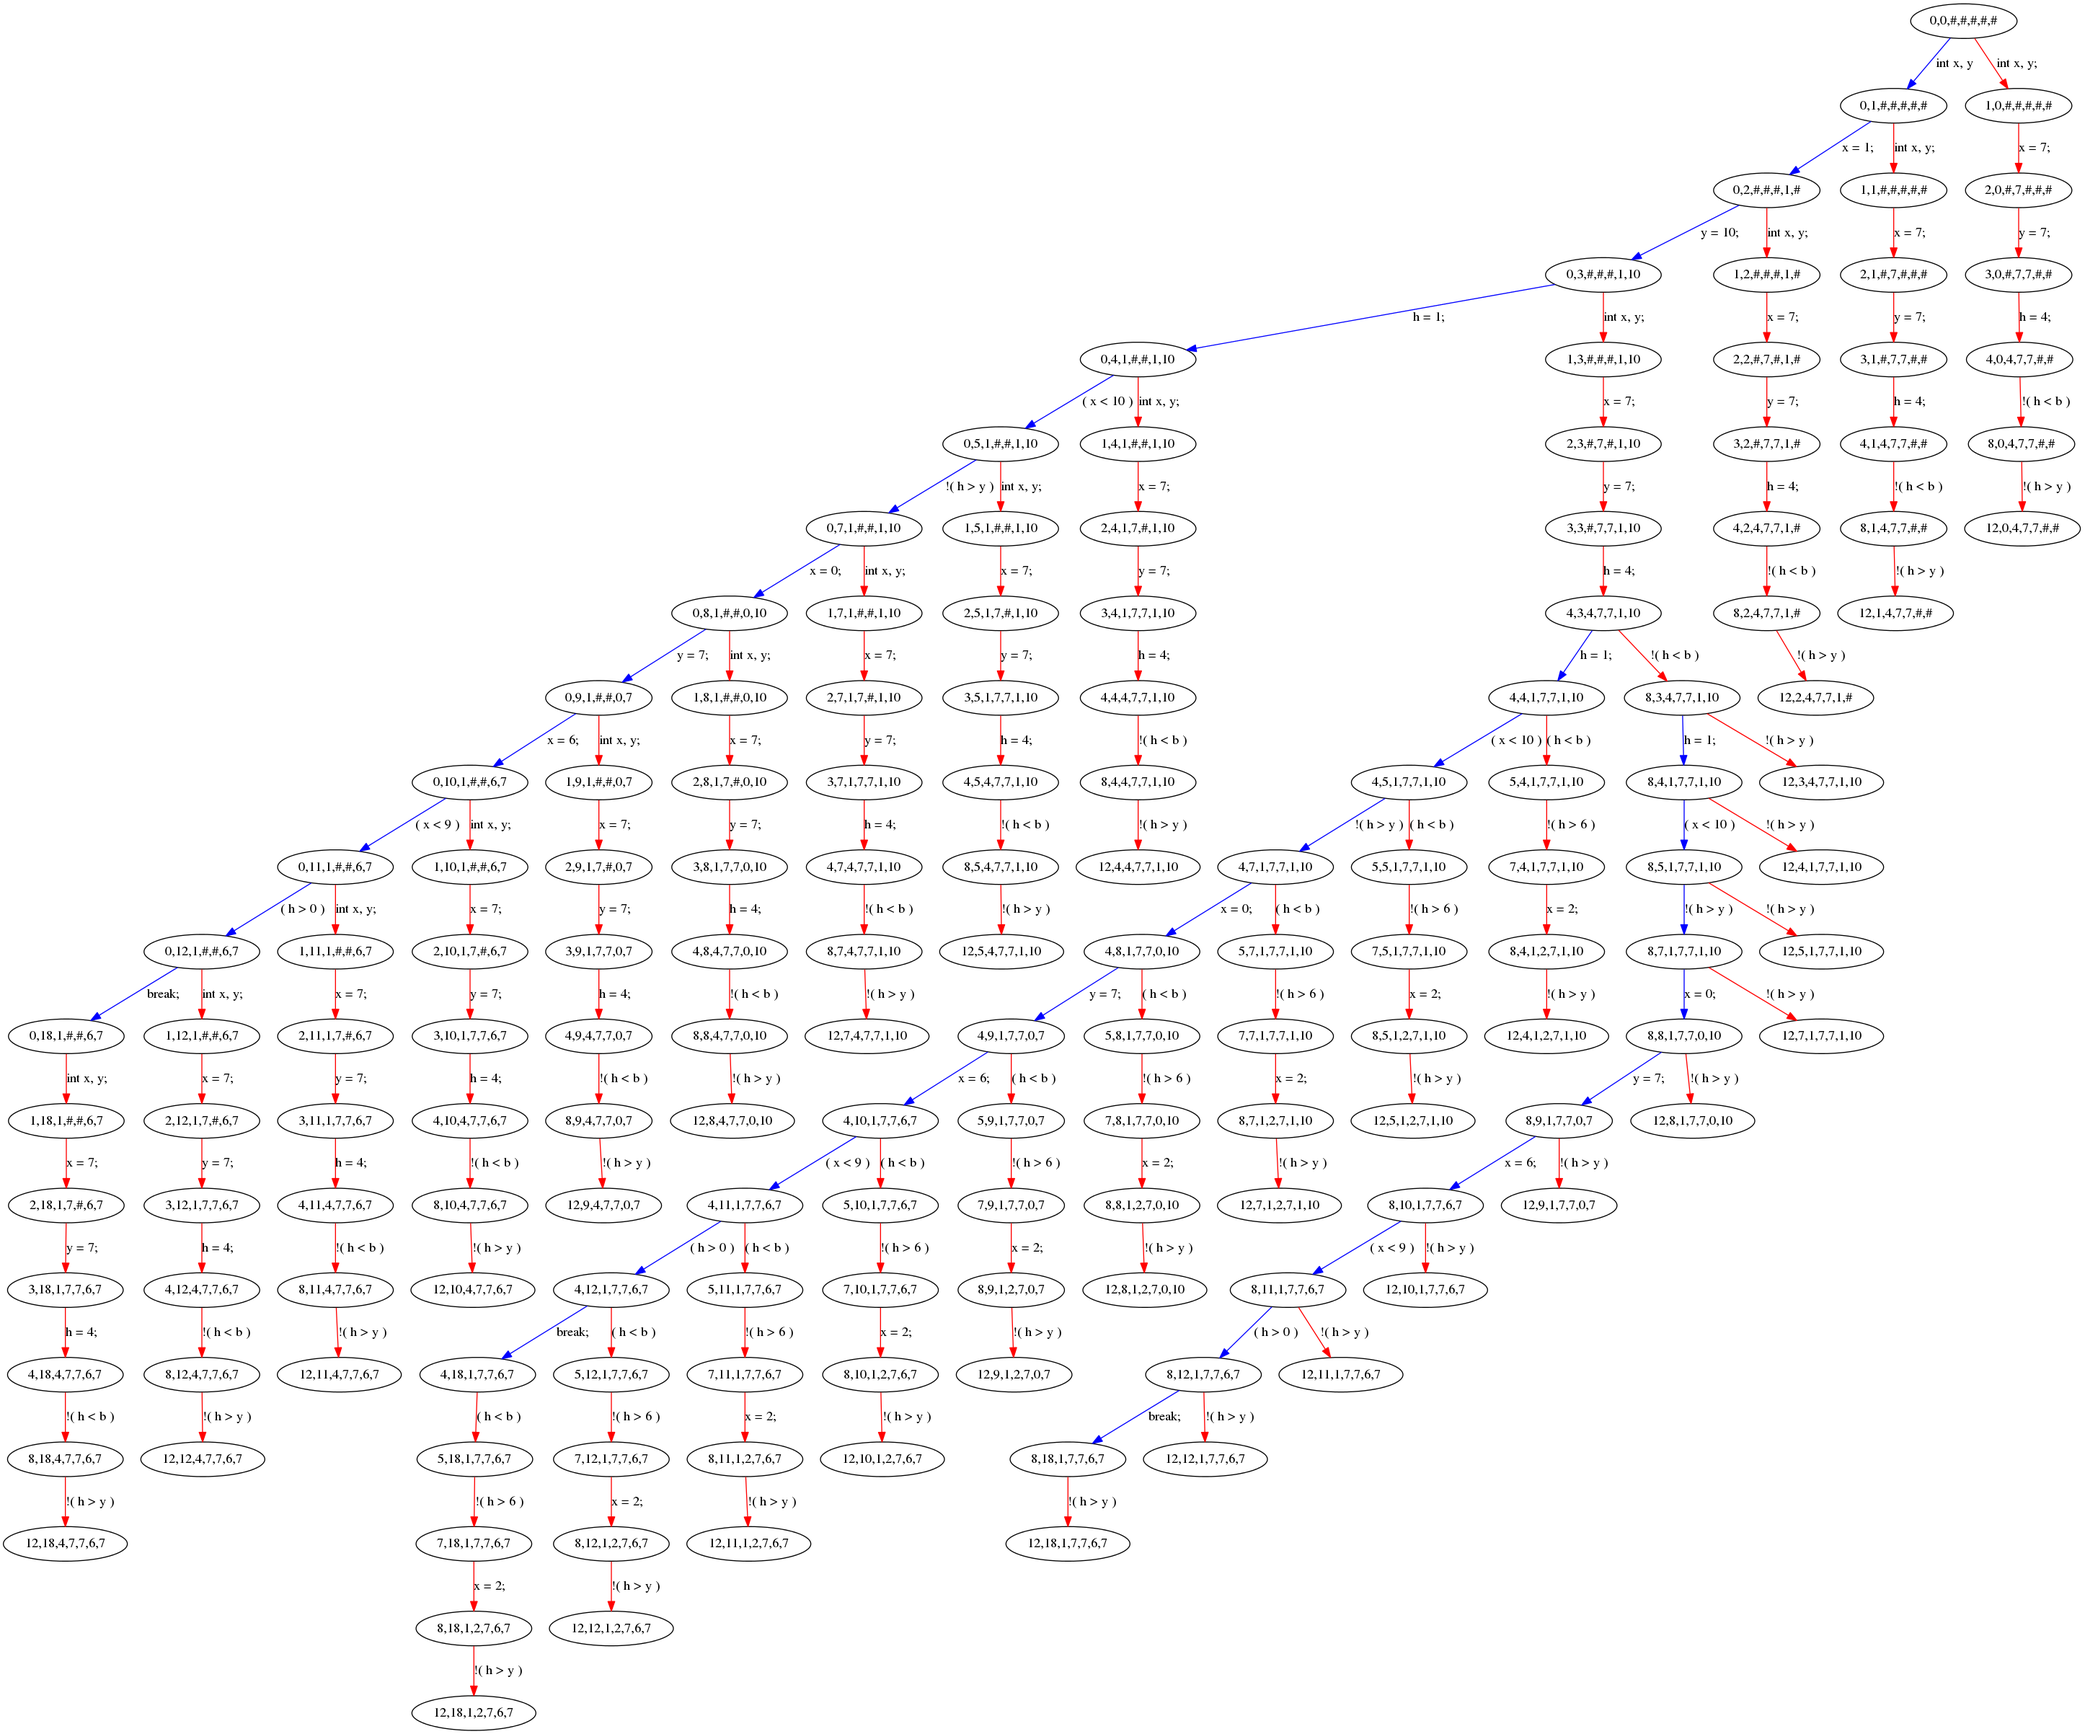
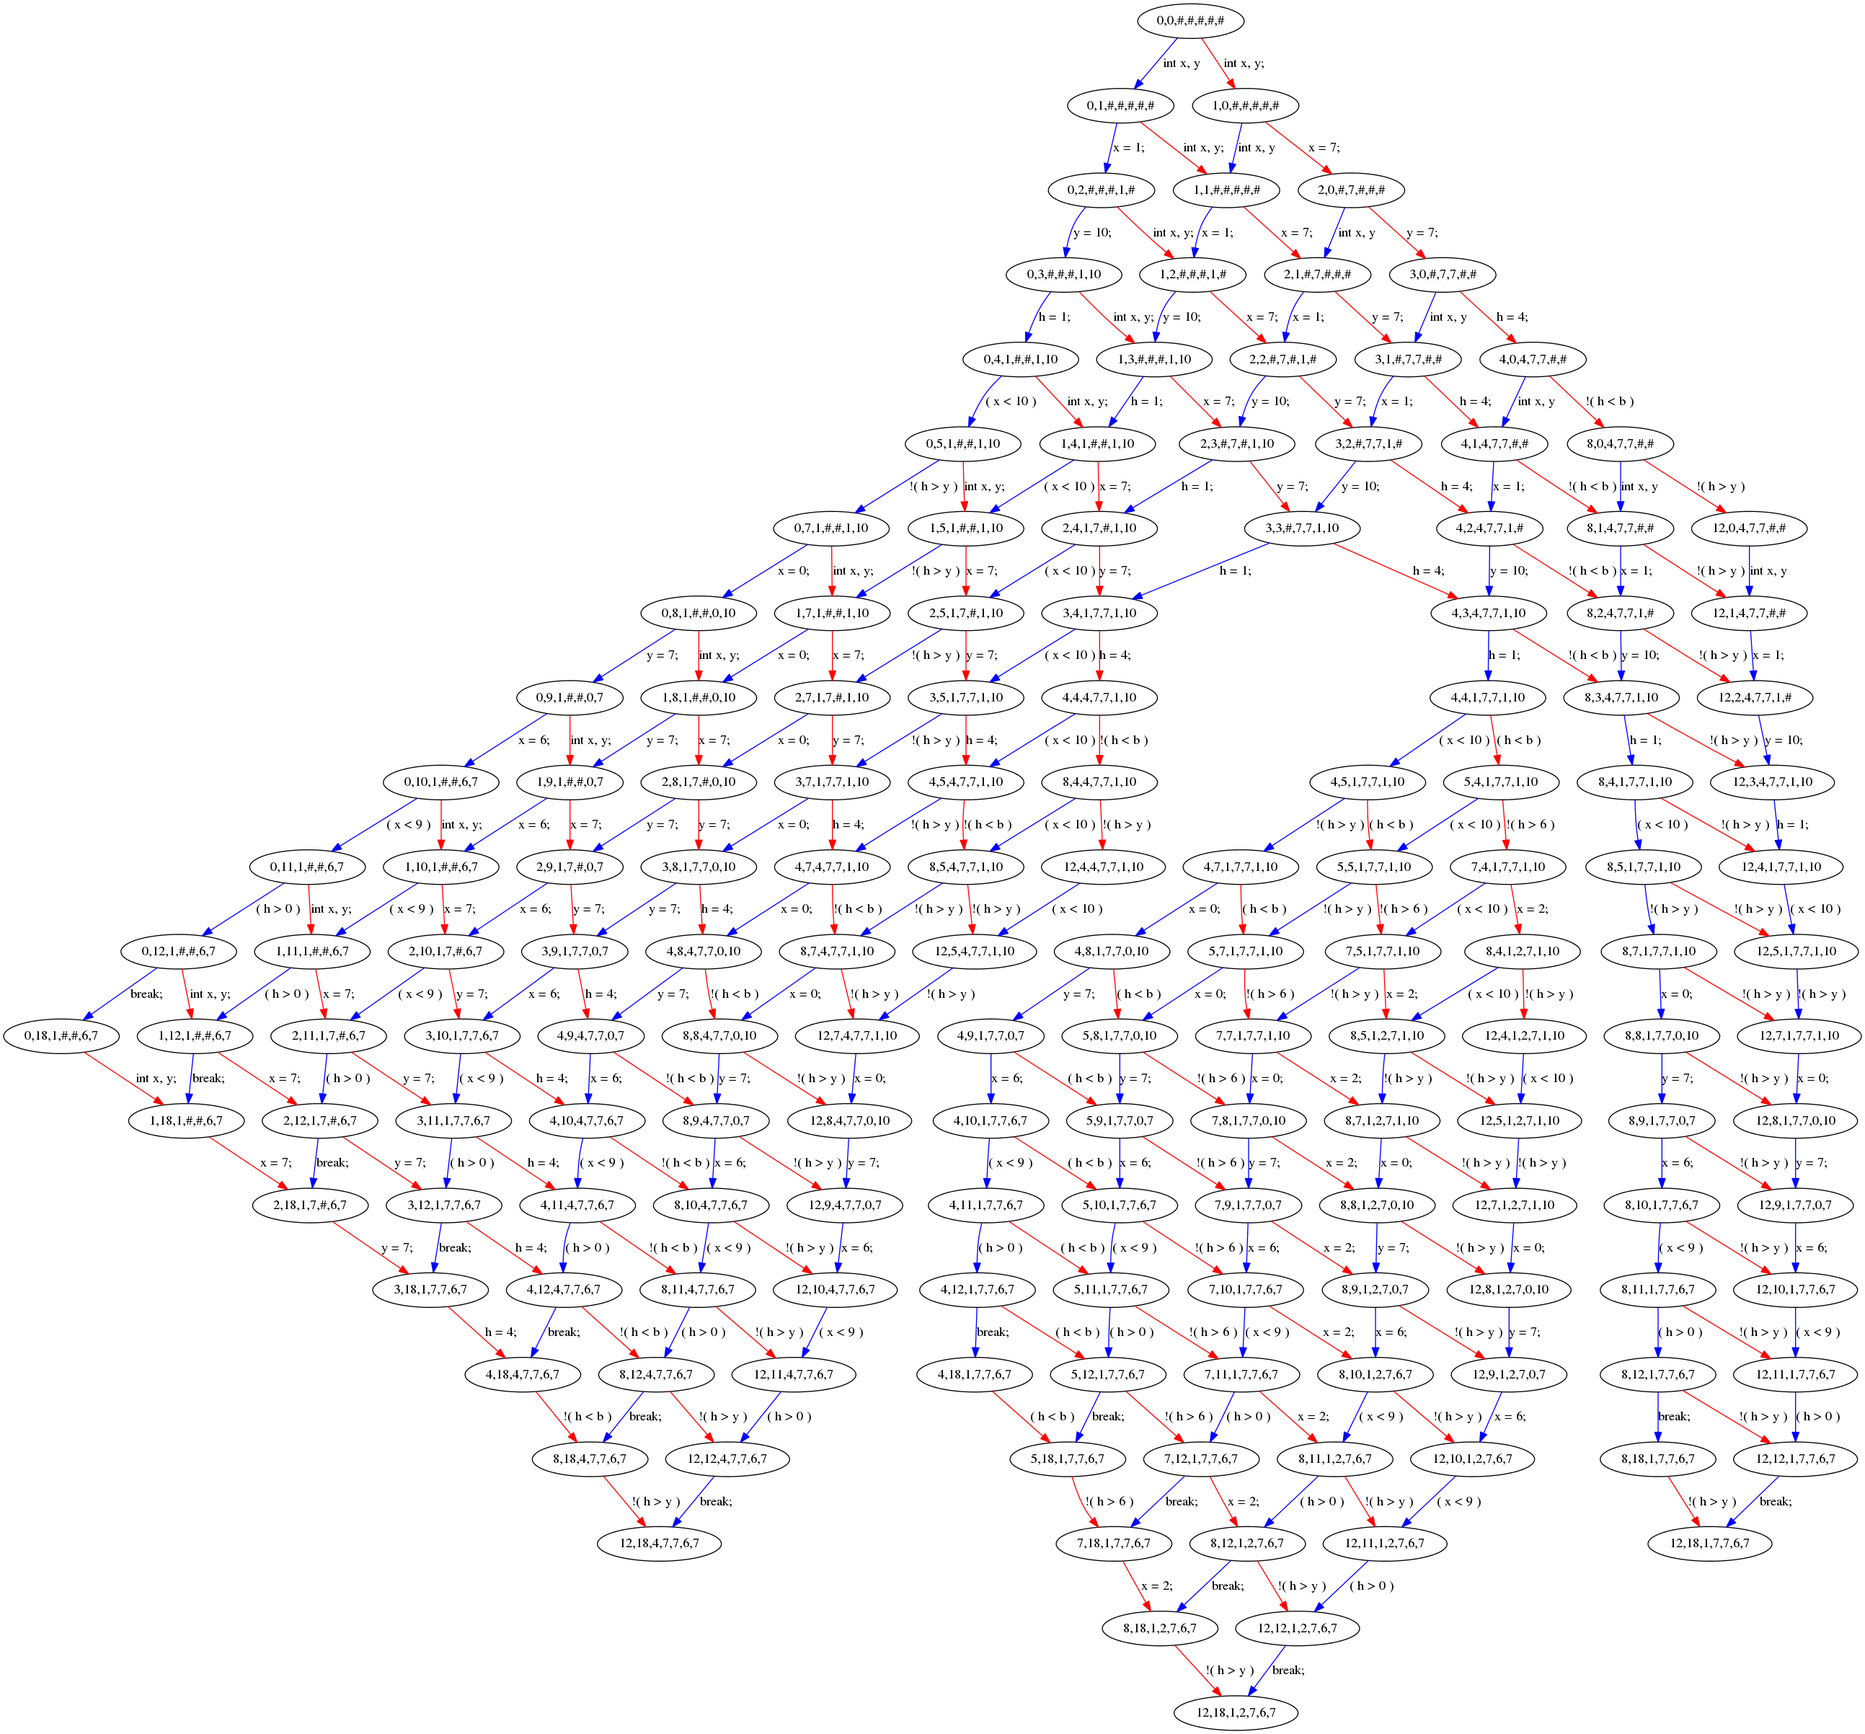
Added second part.

diff --git a/421_chupakhin.cpp b/421_chupakhin.cpp
@@ -18,8 +18,12 @@
 #include <string.h>
 #include <fstream>
 
+//#define fLines 9
+//#define gLines 13
+
 #define fLines 9
 #define gLines 13
+
 
 //GLOBAL VARIABLES -> <FILENAME< <INPUT PARAMETERS FOR PROCEDURE F AND G> <COUNT FLAG>
 //F_Procedure line - {0}, G_Procedure line - {1}
@@ -47,7 +51,7 @@ void initPathes() {
 int correctTrace( const uint & trace ) {
     //Trace is correct if weight == gLines and length == (fLines + gLines)
     char ones = 0;
-    for (uint i = 0; i < (fLines + gLines); i++){
+    for (uint i = 0; i < (fLines + gLines); i++) {
         if ( (trace >> i) & 1 )
             ones += 1;
     }
@@ -143,6 +147,11 @@ public:
         h = right.h;
         c_f = right.c_f;
         c_g = right.c_g;
+        init[0] = right.init[0];
+        init[1] = right.init[1];
+        init[2] = right.init[2];
+        init[3] = right.init[3];
+        init[4] = right.init[4];
         return *this;
     }
 
@@ -212,18 +221,18 @@ public:
 
     void printDOT( std::ofstream & out) {
         std::string color = std::string("blue");
-        if ( nextState.c_f > currState.c_f )
+        if ( nextState.c_f != currState.c_f )
             color = std::string("red");
         out << curr << " -> " << next << " " << "[label=\"" << operation << "\""<< " " <<
         "color=\"" << color << "\"];" << std::endl;
     }
 
     bool operator==( const Action & right ) {
-        return ( currState == right.currState &&
-                nextState == right.nextState &&
-                curr == right.curr &&
-                next == right.next &&
-                operation == right.operation );
+        return ( ( currState == right.currState ) &&
+                ( nextState == right.nextState ) &&
+                ( curr == right.curr ) &&
+                ( next == right.next ) &&
+                ( operation == right.operation ) );
     }
 
 };
@@ -327,16 +336,17 @@ public:
                 action.nextState = curr_state;
                 break;
 
-            case  8:
+//            case  8:
                 //end of the procedure
-                //Infinite loop in last state
-                action.operation = std::string("END");
-                action.nextState = curr_state;
-                action.next = curr;
-                break;
+
+                //action.operation = std::string("END");
+                //action.nextState = curr_state;
+                //action.next = curr;
+//                break;
 
             default:
-                std::cout <<  "Not found appropriate command" << std::endl;
+                //std::cout <<  "Not found appropriate command" << std::endl;
+                return 0;
                 break;
         }
 
@@ -477,16 +487,18 @@ public:
                 action.nextState = curr_state;
                 break;
 
-            case  12:
+//            case  12:
                 //end of the procedure
-                //Infinite loop in last state
-                action.operation = std::string("END");
-                action.nextState = curr_state;
-                action.next = curr;
-                break;
+
+//                action.operation = std::string("END");
+//                action.nextState = curr_state;
+//                action.next = curr;
+
+//                break;
 
             default:
-                std::cout <<  "Not found appropriate command" << std::endl;
+                //std::cout <<  "Not found appropriate command" << std::endl;
+                return 0;
                 break;
         }
 
@@ -516,12 +528,16 @@ void addStateAndAction(std::vector<State> & states, const State & state, std::ve
     //
 
     //If lts flag is not exist then not work with action
-    if ( !lts )
+    if ( !lts ) {
+        std::cout <<  "-lts is not exist in ADDStateAndAction" << std::endl;
         return;
+    }
     //
 
 
     action.next = index;
+
+    flag = 0;
 
     //CHECK ACTION
     size = actions.size();
@@ -585,7 +601,9 @@ void implementTrace(const uint & trace, std::vector<State> & states, std::vector
     Action action;
     addState(states,state);//add first initial state
     //
-    while ( (one_count + null_count) < int(fLines + gLines) ) {
+
+    while ( (one_count + null_count) < int(fLines + gLines ) ) {
+    //while ( one_count < int(gLines) || null_count < int(fLines) ) {
         //std::cout << one_count << " " << null_count << " " << int(fLines + gLines) << std::endl;
 
         //take bit with number == ( one_count + null_count)
@@ -594,19 +612,29 @@ void implementTrace(const uint & trace, std::vector<State> & states, std::vector
         //print new state in execute method if string was implemented
         //make shift on (one_count + null_count) and take first bit
 
+        //Сброс линка
+//        action.currState = State();
+//        action.nextState = State();
+//        action.curr = -1;
+//        action.next = -1;
+//        action.operation = std::string("");
+        //
+
         int currStateIndex = 0;
         if ( lts )
             currStateIndex = stateIndex(states, state);
 //        int currStateIndex = stateIndex(states, state);
 
-        if ( (trace >> (one_count + null_count)) & 1 ){
+        if ( (trace >> (one_count + null_count)) & 1 ) {
             if ( g.execute(state, one_count, action, currStateIndex) ) // {5}
                 addStateAndAction(states, state, actions, action);
             one_count += 1;
+            //std::cout << "one_count -> " << one_count<< std::endl;
         } else {
             if ( f.execute(state, null_count, action, currStateIndex) ) // {6}
                 addStateAndAction(states, state, actions, action);
             null_count += 1;
+            //std::cout << "null_count -> "  << null_count<< std::endl;
         }
     }
 }
@@ -793,11 +821,23 @@ int main( int argc, char **argv ) {
     initPathes();
     std::vector<State> states;
     std::vector<Action> actions;
+
+    //!!!!!!!!!!!!
+    uint PATH1 = 4177951; //1111111100000000011111
+    uint PATH2 = 16382; //0000000011111111111110
+    uint PATH3 = 32764; //0000000111111111111100
+
     //
-    for ( uint trace = START_PATH; trace <= /*END_PATH_NEW*/END_PATH; trace++ ) {
+
+    for ( uint trace = /*END_PATH*/START_PATH; trace <= /*END_PATH_NEW*/END_PATH; trace++ ) {
         if ( !correctTrace(trace) )
             continue;
         //printTrace( trace );
+//        if ( trace != START_PATH /*&& trace != END_PATH &&  trace != PATH1 */ && trace != PATH2)
+//                continue;
+//        if ( trace != PATH1)
+//            continue;
+
         implementTrace(trace, states, actions); // {2}
     }
 
